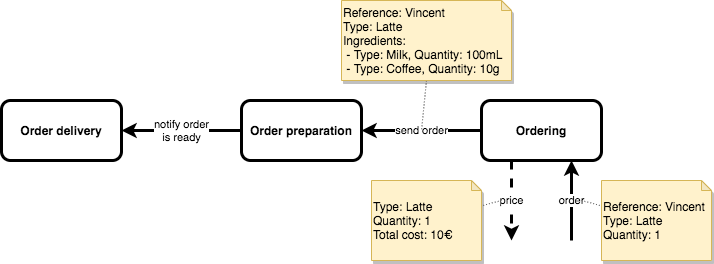
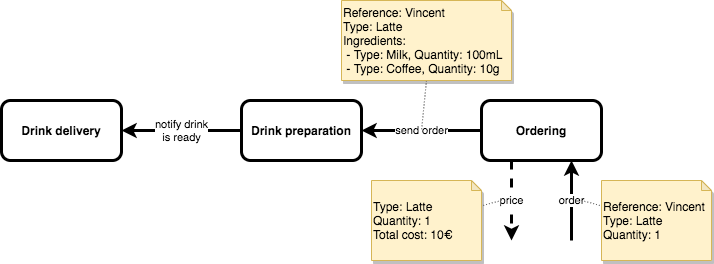
Rename "order preparation" into "drink preparation"

Changed region(s): [[0.3389, 0.4848, 0.493, 0.5152], [0.0308, 0.4545, 0.1541, 0.5152], [0.2157, 0.4545, 0.3081, 0.4848]]

diff --git a/src/main/java/com/pse/coffee/infra/SpringContextConfiguration.java b/src/main/java/com/pse/coffee/infra/SpringContextConfiguration.java
@@ -1,8 +1,10 @@
 package com.pse.coffee.infra;
 
-import com.pse.coffee.domain.*;
+import com.pse.coffee.domain.CustomerOrderHandler;
+import com.pse.coffee.domain.OrderingService;
+import com.pse.coffee.domain.Stock;
 import com.pse.coffee.domain.catalogue.Catalogue;
-import com.pse.coffee.domain.preparation.OrderPreparation;
+import com.pse.coffee.domain.preparation.DrinkPreparation;
 import org.springframework.context.annotation.Bean;
 import org.springframework.context.annotation.ComponentScan;
 import org.springframework.context.annotation.Configuration;
@@ -12,8 +14,8 @@ import org.springframework.context.annotation.Configuration;
 public class SpringContextConfiguration {
 
     @Bean
-    public CustomerOrderHandler customerOrderHandler(final OrderPreparation orderHandler,
-                                         final Stock stock, final Catalogue catalogue) {
-        return new OrderingService(orderHandler, stock, catalogue);
+    public CustomerOrderHandler customerOrderHandler(final DrinkPreparation drinkPreparation,
+                                                     final Stock stock, final Catalogue catalogue) {
+        return new OrderingService(drinkPreparation, stock, catalogue);
     }
 }

diff --git a/src/test/java/com/pse/coffee/domain/OrderingServiceTest.java b/src/test/java/com/pse/coffee/domain/OrderingServiceTest.java
@@ -3,7 +3,7 @@ package com.pse.coffee.domain;
 import com.pse.coffee.domain.catalogue.Catalogue;
 import com.pse.coffee.domain.catalogue.CatalogueItem;
 import com.pse.coffee.domain.preparation.Drink;
-import com.pse.coffee.domain.preparation.OrderPreparation;
+import com.pse.coffee.domain.preparation.DrinkPreparation;
 import com.pse.coffee.domain.recipe.Quantity;
 import com.pse.coffee.domain.recipe.Recipe;
 import org.joda.money.Money;
@@ -25,7 +25,7 @@ import static org.mockito.Mockito.*;
 
 class OrderingServiceTest {
 
-    private final OrderPreparation preparation = mock(OrderPreparation.class);
+    private final DrinkPreparation preparation = mock(DrinkPreparation.class);
     private final Stock stock = mock(Stock.class);
     private final Catalogue catalogue = mock(Catalogue.class);
     private final OrderingService service = new OrderingService(preparation, stock, catalogue);

diff --git a/src/main/java/com/pse/coffee/domain/OrderingService.java b/src/main/java/com/pse/coffee/domain/OrderingService.java
@@ -3,7 +3,7 @@ package com.pse.coffee.domain;
 import com.pse.coffee.domain.catalogue.Catalogue;
 import com.pse.coffee.domain.catalogue.CatalogueItem;
 import com.pse.coffee.domain.preparation.Drink;
-import com.pse.coffee.domain.preparation.OrderPreparation;
+import com.pse.coffee.domain.preparation.DrinkPreparation;
 import com.pse.coffee.domain.recipe.Ingredient;
 import com.pse.coffee.domain.recipe.Quantity;
 import com.pse.coffee.domain.recipe.Recipe;
@@ -19,7 +19,7 @@ import static java.util.stream.IntStream.range;
 @AllArgsConstructor
 public final class OrderingService implements CustomerOrderHandler {
 
-    private final OrderPreparation preparation;
+    private final DrinkPreparation preparation;
     private final Stock stock;
     private final Catalogue catalogue;
 

diff --git a/src/main/java/com/pse/coffee/infra/driven/preparation/DrinkPreparationAdapter.java b/src/main/java/com/pse/coffee/infra/driven/preparation/DrinkPreparationAdapter.java
@@ -1,7 +1,7 @@
 package com.pse.coffee.infra.driven.preparation;
 
 import com.pse.coffee.domain.preparation.Drink;
-import com.pse.coffee.domain.preparation.OrderPreparation;
+import com.pse.coffee.domain.preparation.DrinkPreparation;
 import com.pse.commons.HexagonalArchitecture;
 import lombok.NonNull;
 import lombok.extern.slf4j.Slf4j;
@@ -10,7 +10,7 @@ import org.springframework.stereotype.Service;
 @Slf4j
 @Service
 @HexagonalArchitecture.RightAdapter
-public final class OrderPreparationAdapter implements OrderPreparation {
+public final class DrinkPreparationAdapter implements DrinkPreparation {
     @Override
     public void prepare(@NonNull final Drink drink) {
         log.info("Right Adapter: Prepare drink: {}", drink);

diff --git a/src/test/java/com/pse/coffee/infra/driven/preparation/DrinkPreparationAdapterTest.java b/src/test/java/com/pse/coffee/infra/driven/preparation/DrinkPreparationAdapterTest.java
@@ -6,13 +6,13 @@ import static com.pse.commons.HexagonalArchitectureConditions.aRightAdapter;
 import static org.assertj.core.api.Assertions.assertThat;
 import static org.assertj.core.api.Assertions.assertThatNullPointerException;
 
-class OrderPreparationAdapterTest {
+class DrinkPreparationAdapterTest {
 
-    private final OrderPreparationAdapter adapter = new OrderPreparationAdapter();
+    private final DrinkPreparationAdapter adapter = new DrinkPreparationAdapter();
 
     @Test
     void should_be_a_right_adapter() {
-        assertThat(OrderPreparationAdapter.class).is(aRightAdapter());
+        assertThat(DrinkPreparationAdapter.class).is(aRightAdapter());
     }
 
     @Test

diff --git a/src/test/java/com/pse/coffee/domain/preparation/DrinkPreparationTest.java b/src/test/java/com/pse/coffee/domain/preparation/DrinkPreparationTest.java
@@ -1,16 +1,15 @@
-package com.pse.coffee.domain;
+package com.pse.coffee.domain.preparation;
 
-import com.pse.coffee.domain.preparation.OrderPreparation;
 import org.junit.jupiter.api.Test;
 
 import static com.pse.commons.HexagonalArchitectureConditions.aDrivenPort;
 import static org.assertj.core.api.Assertions.assertThat;
 
-class OrderPreparationTest {
+class DrinkPreparationTest {
 
     @Test
     void should_be_a_driven_port() {
-        assertThat(OrderPreparation.class).is(aDrivenPort());
+        assertThat(DrinkPreparation.class).is(aDrivenPort());
     }
 
 }

diff --git a/src/main/java/com/pse/coffee/domain/preparation/DrinkPreparation.java b/src/main/java/com/pse/coffee/domain/preparation/DrinkPreparation.java
@@ -5,6 +5,6 @@ import com.pse.commons.HexagonalArchitecture;
 import static com.pse.commons.HexagonalArchitecture.Port.Type.DRIVEN;
 
 @HexagonalArchitecture.Port(DRIVEN)
-public interface OrderPreparation {
+public interface DrinkPreparation {
     void prepare(Drink drink);
 }

diff --git a/README.md b/README.md
@@ -15,12 +15,12 @@ it checks that the necessary ingredients are available, sends the order for prep
 
 * The current service is in charge of resolving the price and the list of necessary ingredients according to a catalogue.
 * It checks that the ingredients are available by calling another service which exposes current stock status.
-* Orders are sent asynchronously to another service, dedicated to order preparation. 
+* Orders are sent asynchronously to another service, dedicated to drink preparation. 
 
 ![Adapters](./doc/img/Adapters.png)
 
 This translates into 4 ports:
-* A driving port, Order Controller, is in charge of receiving orders.
+* A driving port, Customer Order Handler, is in charge of processing orders.
 * A driven port, Catalogue, exposes the recipes along with their price.
 * A driven port, Stock, exposes current stock status by calling the dedicated service.
-* A driven port, Order Preparation, sends the order to the service in charge of order preparation.
+* A driven port, Drink Preparation, sends the order to the service in charge of drink preparation.
